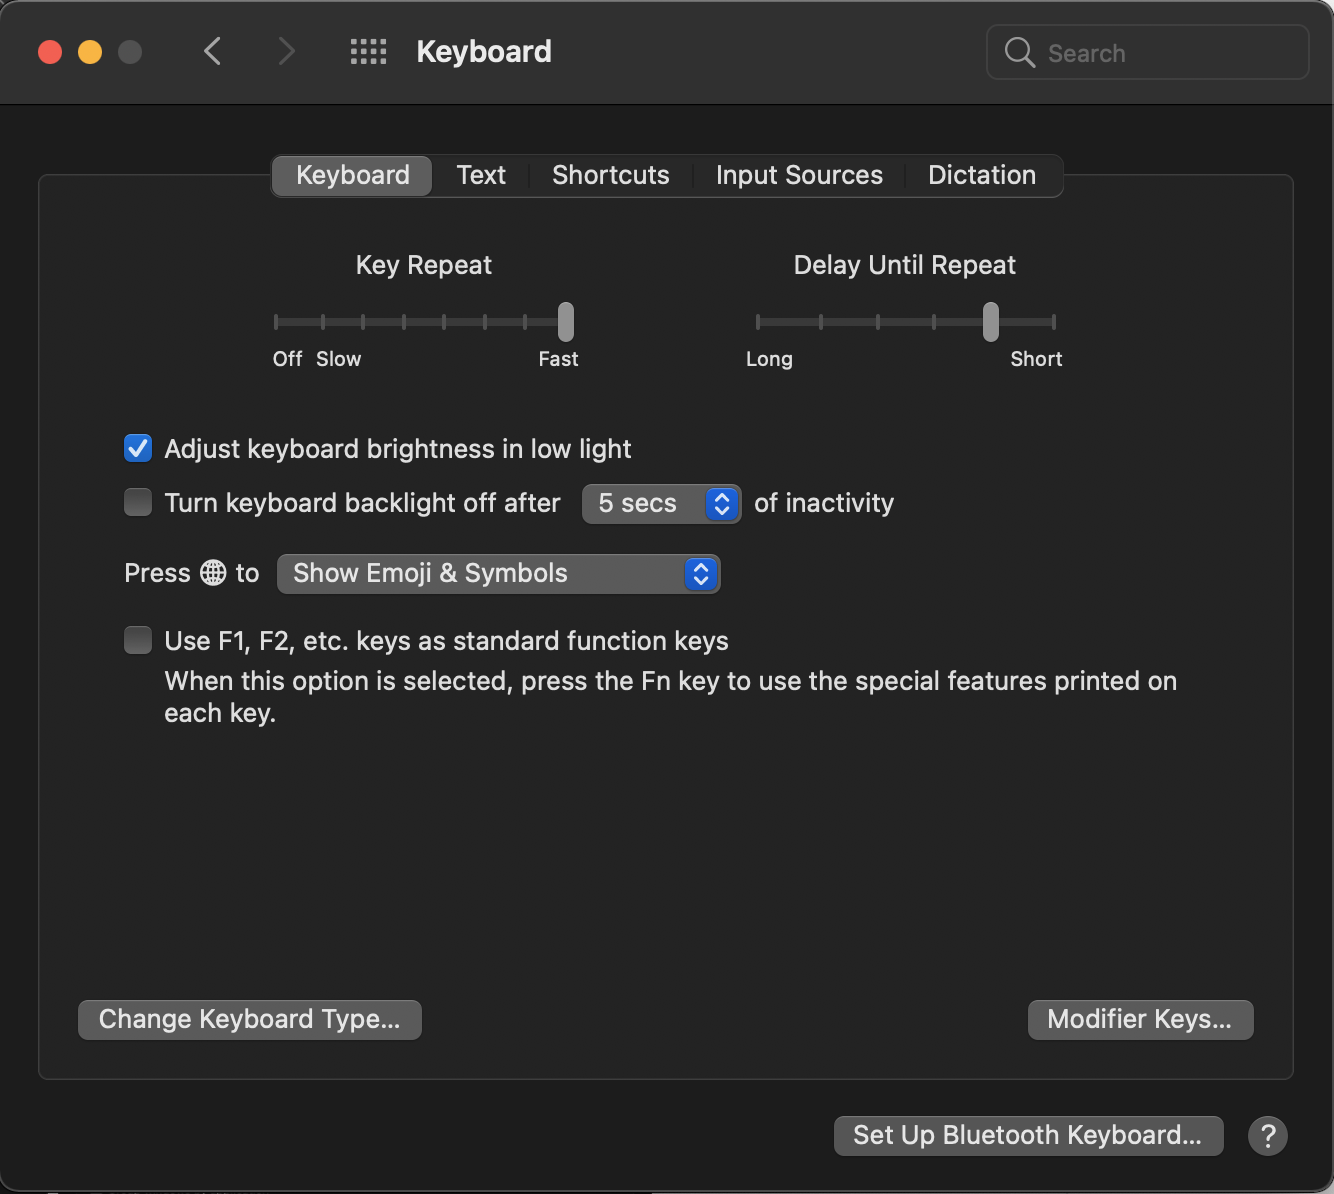
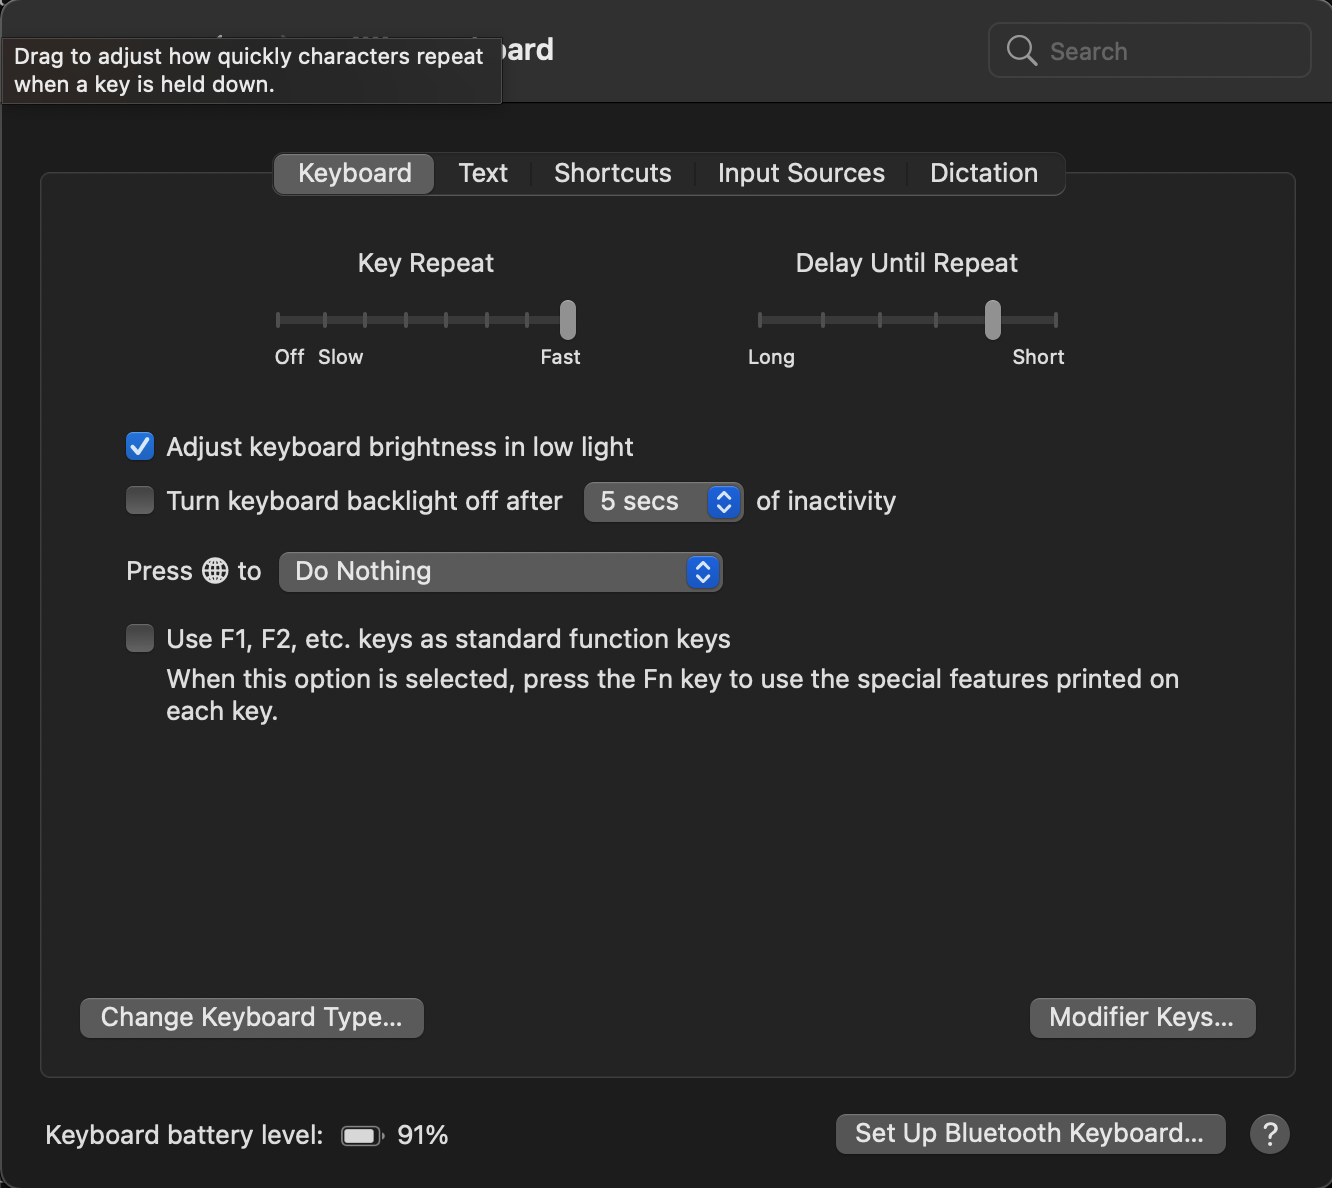
disable emoji characters + replace karabiner with built-in replacement

diff --git a/README.md b/README.md
@@ -105,12 +105,8 @@ Follow the below instructions to configure your working environment
 
         <img src="./images/system/additional/alttab/1_controls_1.png" height="200"> <img src="./images/system/additional/alttab/2_controls_2.png" height="200"> <img src="./images/system/additional/alttab/3_appearance.png" height="200">
         
-    - Karabiner Elements
-        - Remapped caps lock and escape.
-        - TODO: If the Apple magic keyboard supports it, remap fn and ctrl
-
-        <img src="./images/system/additional/karabiner_elements/1_simple_modifications.png" height="200">
-
+    - --Karabiner Elements--
+        - Temporarily disabling because of compatability issues with MacOS 11. Instead, I added a fourth script to achieve caps to esc mapping. See below 
     - Alfred 4
         - Purchase power-pack (not sure if license can be shared across multiple computers).
         - Create hotkey keyboard shortcut (Alt-Cmd-N) to create a new workspace.
@@ -177,4 +173,10 @@ chsh -s /path/to/shell
 ```
 # Go: visit https://golang.org/doc/install, download, and follow the instructions
 ./scripts/install_3.sh
+```
+
+6. Remap keys (Esc <-> Caps)
+
+```
+./scripts/install_4.sh
 ```
